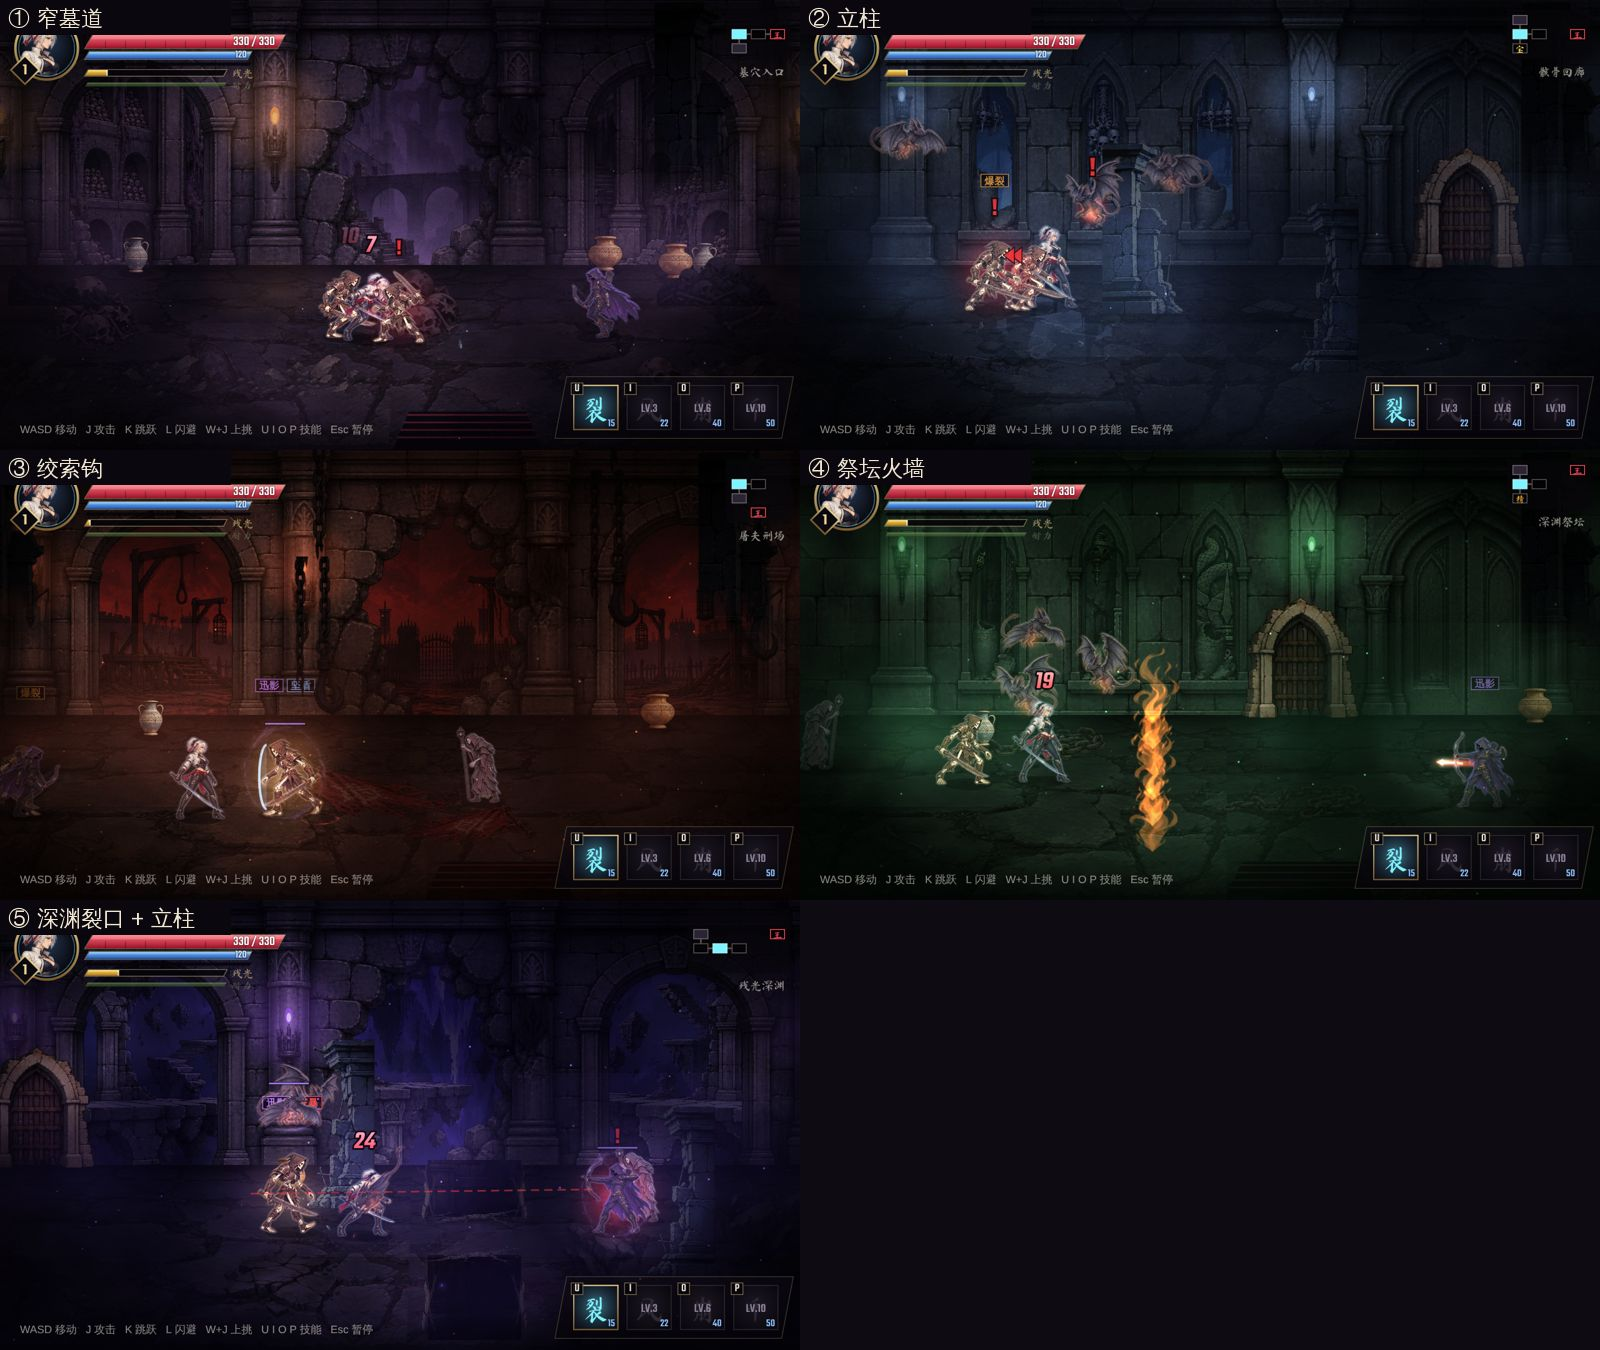
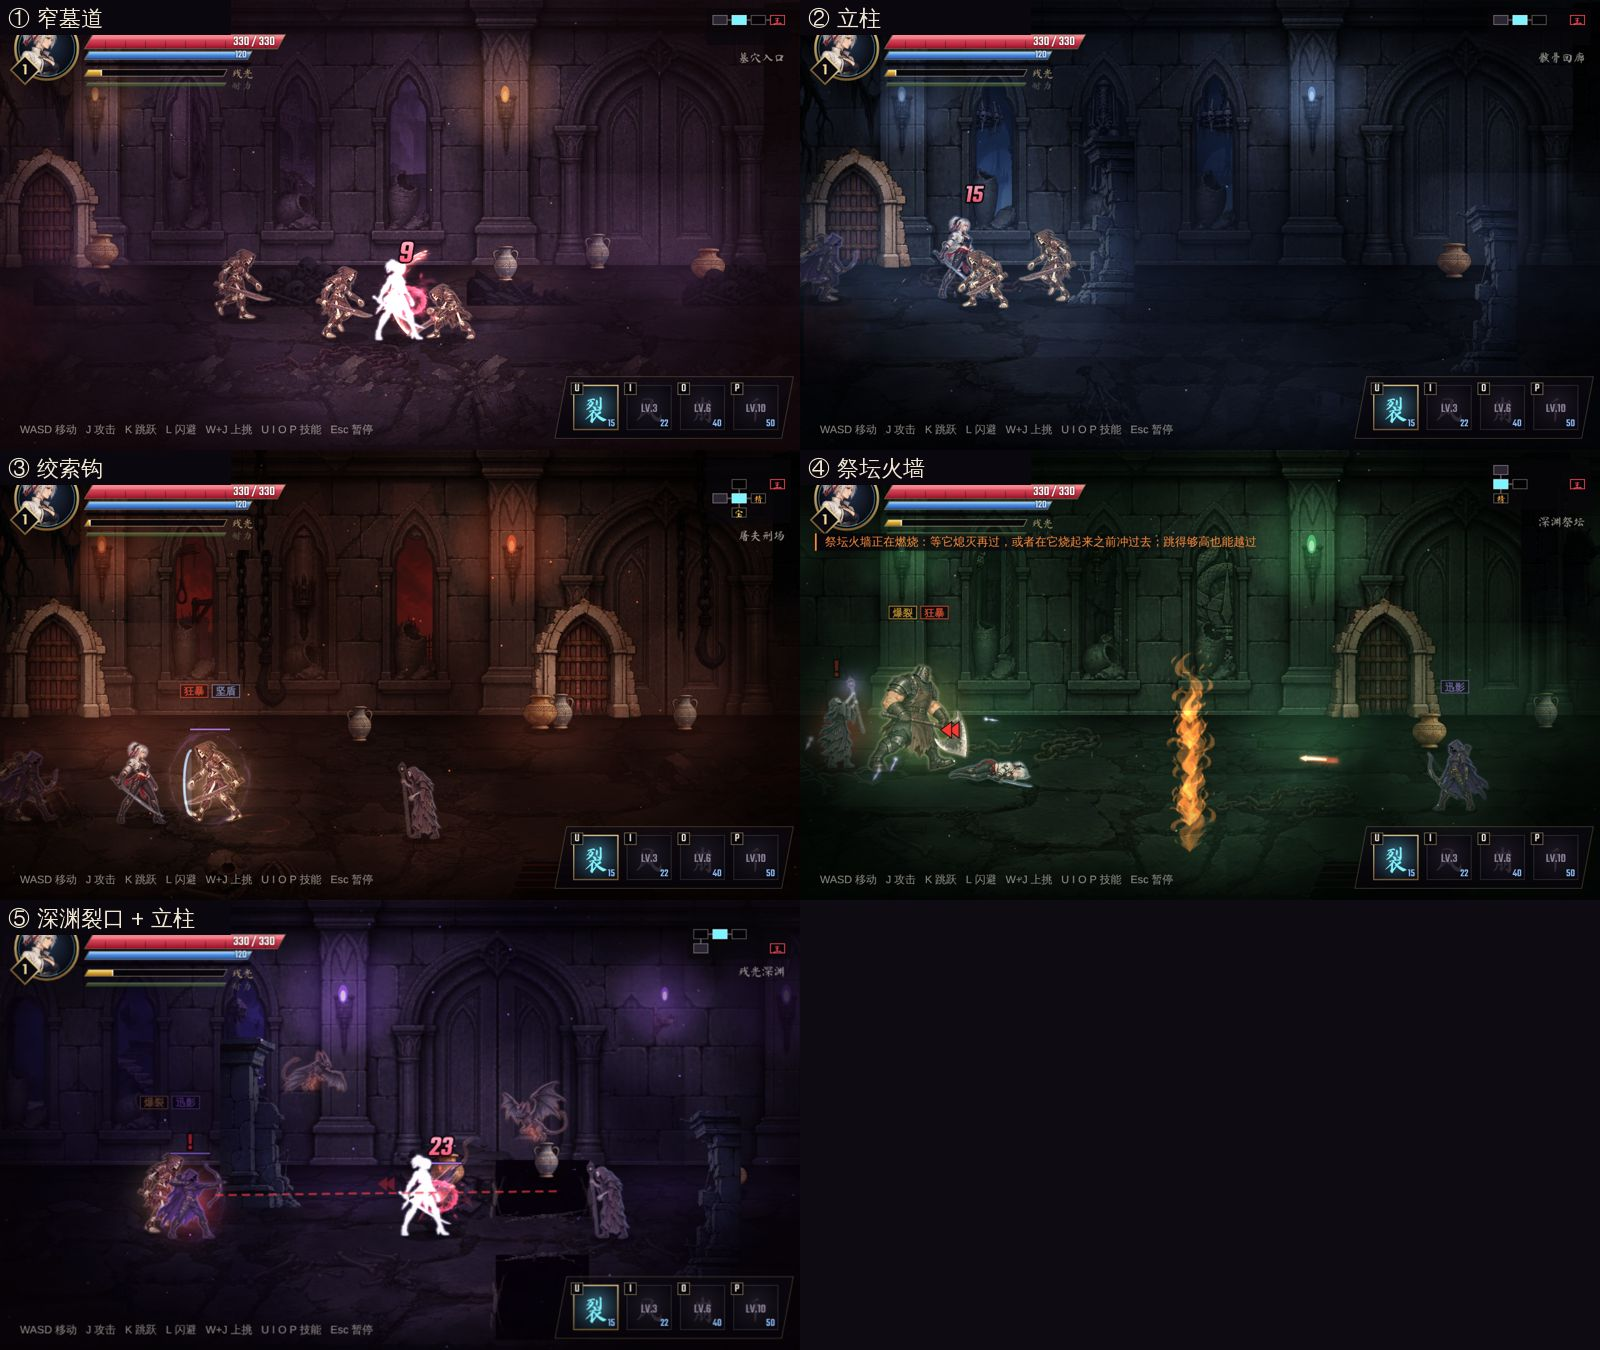
子轮 E：自动通关对比记录、地形截图更新
Claude-Session: https://claude.ai/code/session_016hifdkBdBtKZpyLgvXjhcu

diff --git a/docs/AUDIT_PRE_GODOT.md b/docs/AUDIT_PRE_GODOT.md
@@ -174,7 +174,7 @@ UI（血条、文字、按钮、菜单）不算特效，这次不列；首领 / 
 
 **配套的系统改动**：第 7 项耐力（闪避和技能共用节奏）；技能的「错误时机」（被格挡、被躲开、打空时的惩罚窗口）；首领动态难度（按角色战力 +10%～50%，优先加行为强度：出招频率、连段长度、读习惯力度，数值只在这个范围内）。
 **验收方式**：自动通关脚本只证明「打得过」；「好玩」在 Quinn 亲自玩之前一律标**未验证**。
-**状态**：**子轮 E 已实现（v45），「好玩」未验证、等 Quinn 试玩**。数据在 `src/stage_rules.js`（每关的地形 / 规则，可调）、`src/boss_scale.js`（首领动态难度），运行时在 `src/terrain.js`。敌人和玩家的血量、伤害一个都没改。
+**状态**：**子轮 E 已实现（v45），「好玩」未验证、等 Quinn 试玩**；「只按技能就够」按自动玩家看是削弱了、没有消灭（见本节末尾）。数据在 `src/stage_rules.js`（每关的地形 / 规则，可调）、`src/boss_scale.js`（首领动态难度），运行时在 `src/terrain.js`。敌人和玩家的血量、伤害一个都没改。
 
 ### 子轮 E 实施记录（2026-11-07）
 
@@ -208,6 +208,18 @@ UI（血条、文字、按钮、菜单）不算特效，这次不列；首领 / 
   - 处理：挂机脚本的计数分开记首领房 / 普通房（`lungesBoss`），以后能直接看出来自哪里。
 
 **验证**：确定性测试 `stagetest.js`（26 项：每关的地形和规则、反击、成对俯冲、词缀组合、裂口掉落 / 敌人摔死 / 精英 / 首领、动态难度公式 / 连斩 / 休息 / 血量上限、读习惯、试炼里没有地形）全过；自动通关对比（中等水平玩家 vs 只按技能的玩家，改前 / 改后）见本节末尾；全套回归、难度挂机、截图、帧率见发布报告。
+
+**自动通关对比**（`stagebench.js`，普通难度、等级 = 推荐等级 + 1，玩家会死；中等 = 看到预警 15 帧后 60% 闪避、贴近就普攻、偶尔放技能；只按技能 = 能放就放，否则普攻；会看机制 = 中等 + 不闪假冲 / 佯攻露馅后的一下、不打举斧格挡的屠夫正面、从钩子下面走开、不往烧着的火墙走；但它**不放技能**）：
+
+| | 第 1 关 | 第 2 关 | 第 3～5 关 |
+|---|---|---|---|
+| v44 中等 / 只按技能（各 5 局） | 5/5 · 5/5 | **2/5 · 5/5**（审计说的问题：只按技能比正常打更稳） | 全部 0/5（自动玩家太弱，看不出差别） |
+| 改后，加魔力节奏之前（中等 5 局；只按技能 / 会看机制各 8 局） | 5/5 · 5/5 | 0/5 · **8/8** · 1/8 | 全部 0/5 |
+| 改后（v45，各 8 局） | — · 8/8 | 0/8 · **5/8** · 3/8 | —— |
+
+结论（照实写）：
+- 第 2 关的新机制都在起作用（立柱挡掉只按技能那一方每局约 124～148 道剑气、屠夫反击、技能打空被抓），但「只按技能」仍是自动玩家里通关最多的；加了魔力节奏以后从 8/8 降到 5/8，**削弱了、没有消灭**。「会看机制」的那个自动玩家不放技能，所以它和「只按技能」的差距主要说明技能本身还是强。
+- 8 局的样本、通关数的随机波动在 ±2 左右；第 3～5 关所有自动玩家都过不去，没法用它判断。真正的判断要 Quinn 试玩；魔力节奏的两个数值在 `stamina_data.js` 里可以直接调。
 
 ---
 
